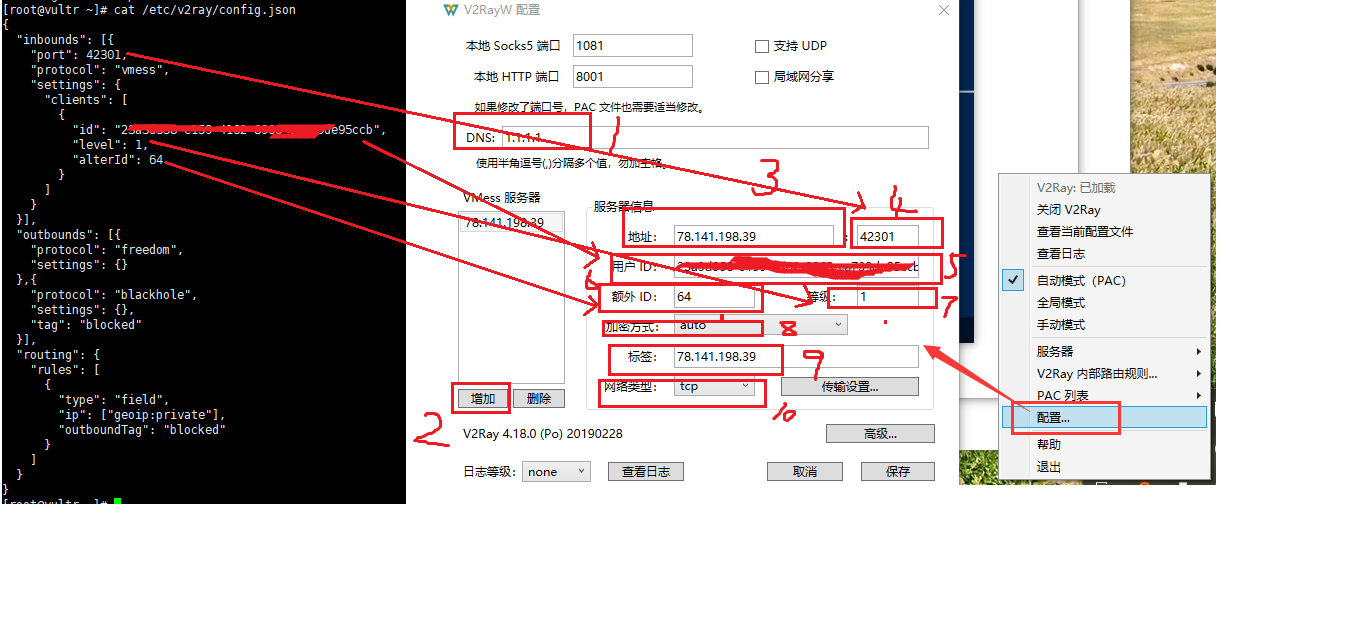
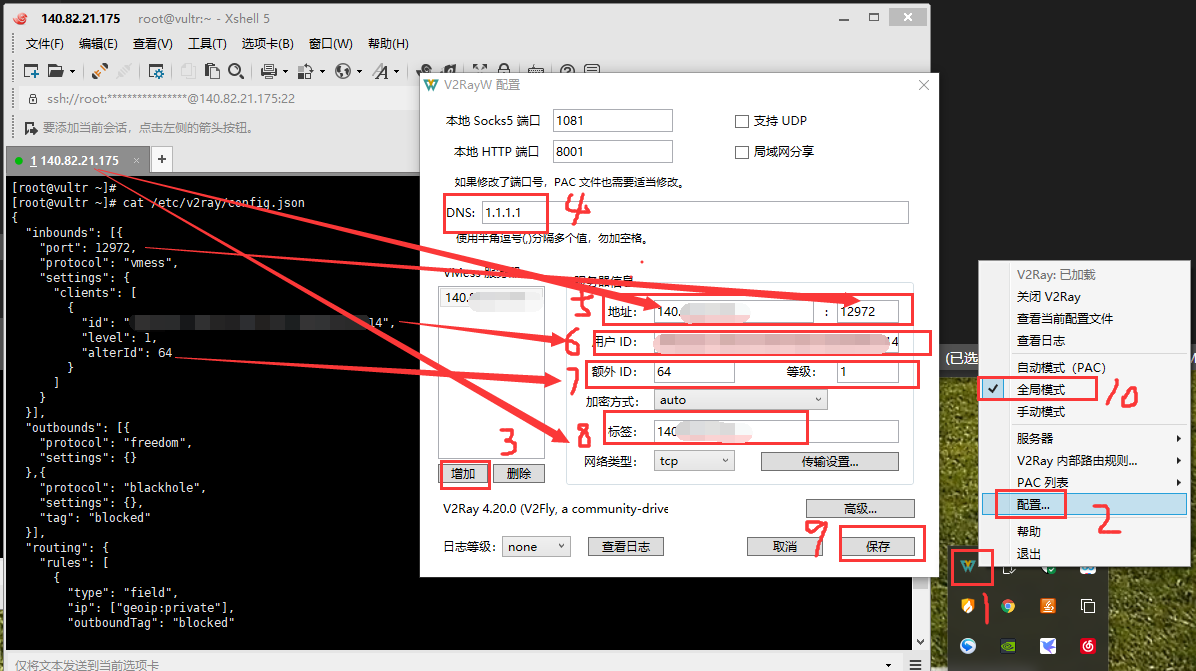
update

diff --git a/01.工具/16.vultr/03.vultr之安装配置v2ray.md b/01.工具/16.vultr/03.vultr之安装配置v2ray.md
@@ -5,6 +5,8 @@
 
 ***
 
+> xshell连上远程的centos7后输入命令
+
 # <a name="vultr-01" href="#" >下载安装</a>
 
 > centso7 安装v2ray
@@ -23,29 +25,13 @@ service v2ray start
 ```shell
 wget --no-check-certificate -O rskernel.sh https://raw.githubusercontent.com/hombo125/doubi/master/rskernel.sh && bash rskernel.sh
 ```
-- 自动重启后(安装时全部默认，一切按回车)
+- 系统自动重启后(安装时全部默认，一切按回车)
 
 ```shell
 yum install net-tools -y && wget --no-check-certificate -O appex.sh https://raw.githubusercontent.com/0oVicero0/serverSpeeder_Install/master/appex.sh && bash appex.sh install
 ```
 
-> 客户端安装
-
-- windows
-
-[![](https://img.shields.io/badge/官网-V2RayW-blue.svg "官网 V2RayW")](https://github.com/Cenmrev/V2RayW/releases)
-
-`要是不能自动下载v2ray-core，到github下载，解压改名字：v2ray-core，放到与V2RayW.exe同目录下`
-
-[![](https://img.shields.io/badge/官网-v2ray--core-blue.svg "官网 v2ray-core")](https://github.com/v2ray/v2ray-core/releases/tag/v4.20.0)
-
-- 安卓
-
-[![](https://img.shields.io/badge/apk-BifrostV-green.svg "apk BifrostV")](https://pan.baidu.com/s/1x3VgIs54ip0q1KsJvSuKPg)
-
-# <a name="vultr-02" href="#" >配置</a>
-
-> 开放防火墙
+> 3、开放防火墙
 
 ```shell
 
@@ -54,27 +40,44 @@ firewall-cmd --reload
 firewall-cmd --zone=public --query-port=42301/tcp
 ```
 
+
+# <a name="vultr-02" href="#" >配置</a>
+
 > windows的客户端配置
+
+- windows(根据自己电脑系统位数下载对应版本)
+
+[![](https://img.shields.io/badge/官网-V2RayW-blue.svg "官网 V2RayW")](https://github.com/Cenmrev/V2RayW/releases)
+
+`下载v2ray-core，解压后改名字：v2ray-core，放到与V2RayW.exe同目录下`
+
+[![](https://img.shields.io/badge/官网-v2ray--core-blue.svg "官网 v2ray-core")](https://github.com/v2ray/v2ray-core/releases/tag/v4.20.0)
 
 ![](image/3-1.png)
 
 
 ```shell
+# xshell输入命令查看搭建好的v2ray配置
 cat /etc/v2ray/config.json
 ```
+
+- 双击V2RayW.exe，鼠标右键配置
 
 ![](image/3-2.png)
 
 > 安卓的客户端
 
+- 安卓(因为版权问题，只能百度云只能私发，加我；yiyiyqyq，要么自行百度BifrostV安装包)
+
+[![](https://img.shields.io/badge/apk-BifrostV-green.svg "apk BifrostV")](https://pan.baidu.com/s/1x3VgIs54ip0q1KsJvSuKPg)
 
 - 客户端的配置
 
 | 项目 | 值 |
 | :- | :- |  
 | 主机/服务器/地址 | 服务器ip |
-| 端口 port | 图中的PORT |
-| 用户ID | 图中的UUID |
+| 端口 port | config.json图中的port |
+| 用户ID | config.json图中的id |
 | 额外ID AlterId | 64 |
 | 加密方式 security | auto |
 | 用户等级 | 1 |
@@ -87,6 +90,10 @@ cat /etc/v2ray/config.json
 
 # <a name="vultr-03" href="#" >测试</a>
 
-进入YouTube
+> 使用浏览器进入YouTube，看是否正常访问
 
 https://www.youtube.com
+
+- windows双击V2RayW.exe运行，使用浏览器输入地址
+
+- 安卓要启动BifrostV，再使用浏览器输入地址

diff --git a/01.工具/16.vultr/01.vultr之注册创建服务器.md b/01.工具/16.vultr/01.vultr之注册创建服务器.md
@@ -14,11 +14,14 @@
 
 ![](image/1-1.png)
 
+
 > 2、创建账号充值
 
 ![](image/1-2.png)
 
 ![](image/1-3.png)
+
+- 新用户充值后有50美元送，一个月用不完自动清掉，第二个月才开始消耗充值的，一般10美元能用三个月。
 
 ![](image/1-4.png)
 
@@ -26,6 +29,11 @@
 
 # <a name="vultr-02" href="#" >创建服务器</a>
 
+![](image/1-6.png)
+
+![](image/1-7.png)
+
+> 机房的选择建议
 
 - 移动用户选择建议：
 
@@ -39,19 +47,17 @@
 联通用户可选择Vultr的新加坡节点，也可以尝试Vultr的杉矶机房、硅谷机房和西雅图机房，这几个机房对于联通用户来说速度都很不错。
 ```
 
-- 电信用户选择建议：
+- 电信用户选择建议：（`这里选洛杉矶机房为例`）
 
 ```
 电信用户可选择Vultr的洛杉矶机房、硅谷机房和西雅图机房，不推荐日本和新加坡节点。
 ```
 
-`我选洛杉矶机房`
-
-![](image/1-6.png)
-
-![](image/1-7.png)
-
 ![](image/1-8.png)
+
+
+> 云服务的操作系统我选择linux系统的centOS7 64位的，选择其他系统的后面的安装v2ray命令自行百度。
+
 
 ![](image/1-12.png)
 
@@ -60,8 +66,18 @@
 
 ![](image/1-9.png)
 
-- 记住ip、账号和密码
-
 ![](image/1-10.png)
 
+- 记住ip、账号和密码
+
 ![](image/1-11.png)
+
+- 使用Xshell远程连接上centOS7
+
+[![](https://img.shields.io/badge/Xmanager_Enterprise_5-0436-green.svg "Xmanager Enterprise 5 0436")](https://pan.baidu.com/s/13BdHO9Eev2-15rmthagHJw)
+
+![](image/1-13.png)
+
+![](image/1-14.png)
+
+- 点击确定后，后面再填写云服务的账号和密码
